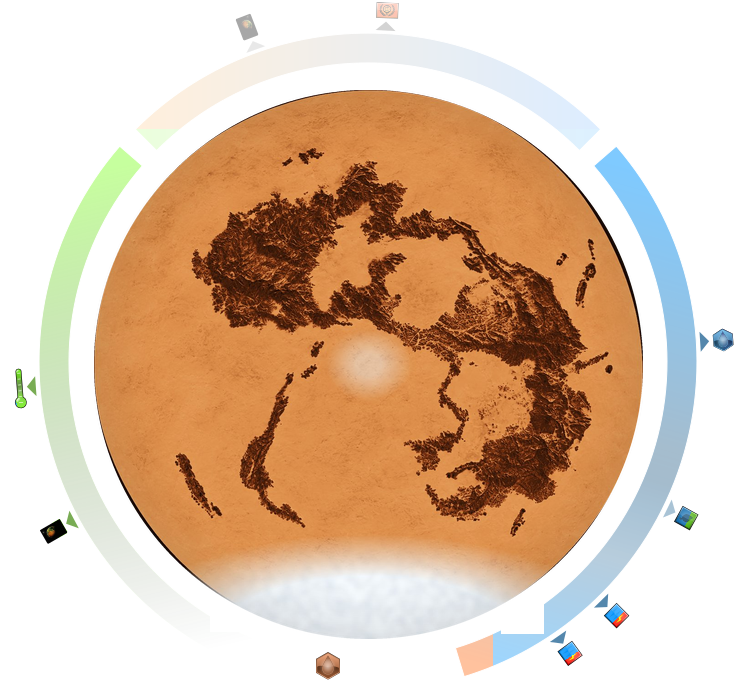
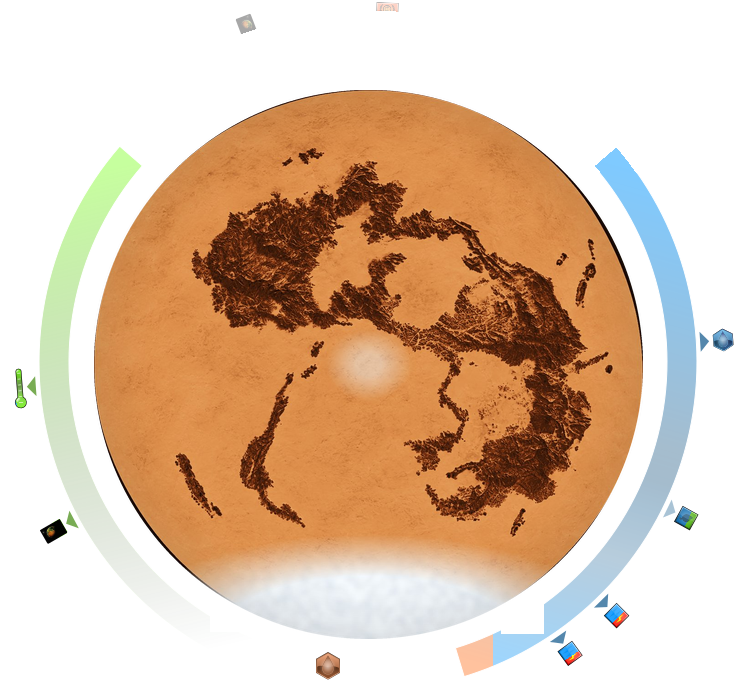
Dune theme: remove the Venus arc from the Arrakis board completely
Claude-Session: https://claude.ai/code/session_01Hm7JhJk6hoDEdgvNzsWLyo

Changed region(s): [[0.1865, 0.0309, 0.373, 0.2162], [0.6216, 0.0618, 0.8081, 0.2162], [0.4973, 0.0, 0.5595, 0.0618]]

diff --git a/scripts/make-dune-planet.py b/scripts/make-dune-planet.py
@@ -45,7 +45,7 @@ def sphere(size: int) -> Image.Image:
 
 
 # Scale rings around the planet: oxygen (left) becomes the green vegetation scale, temperature (right) the blue water
-# storage. Hue of every ring pixel is replaced, brightness and saturation stay, so the scale steps keep their look.
+# storage, the Venus arc on top is removed. Hue of every ring pixel is replaced, brightness and saturation stay, so the scale steps keep their look.
 OXYGEN_HUE = 95 / 360
 WATER_HUE = 205 / 360
 SPICE_HUE = 22 / 360
@@ -64,10 +64,20 @@ def recolor_rings(picture: Image.Image, left: int, top: int, size: int) -> None:
             if alpha == 0:
                 continue
             distance = math.hypot(x - centre_x, y - centre_y)
-            # Only the side rings: the top arc (Venus) and the ocean marker below the planet keep their colours
-            if distance < radius + 6 or distance > radius + 80 or y < centre_y - radius * 0.86:
+            if distance < radius + 6 or distance > radius + 80:
+                continue
+            # Arrakis has no Venus: the top arc goes completely (Jens), not even faded
+            if y < centre_y - radius * 0.83:
+                pixels[x, y] = (0, 0, 0, 0)
                 continue
             hue, lightness, saturation = colorsys.rgb_to_hls(red / 255, green / 255, blue / 255)
+            # The pale ends of the Venus arc reach down next to the side rings
+            # (the faded Venus arc of the pictures without Venus is semi-transparent, the side rings are opaque)
+            pale = lightness > 0.6 or (saturation < 0.3 and lightness > 0.45)
+            # (the white label at the top end of the oxygen ring stays)
+            if y < centre_y - radius * 0.7 and (alpha < 120 or (pale and x > centre_x - radius * 0.82)):
+                pixels[x, y] = (0, 0, 0, 0)
+                continue
             target = OXYGEN_HUE if x < centre_x else WATER_HUE
             if y > centre_y and abs(x - centre_x) < radius * 0.45:
                 # The ocean marker below the planet becomes a spice field (orange)
